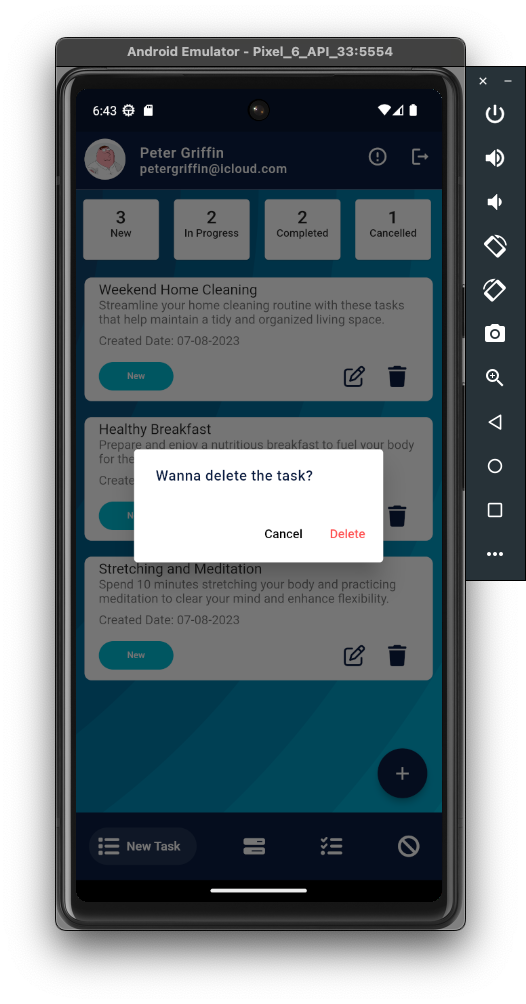
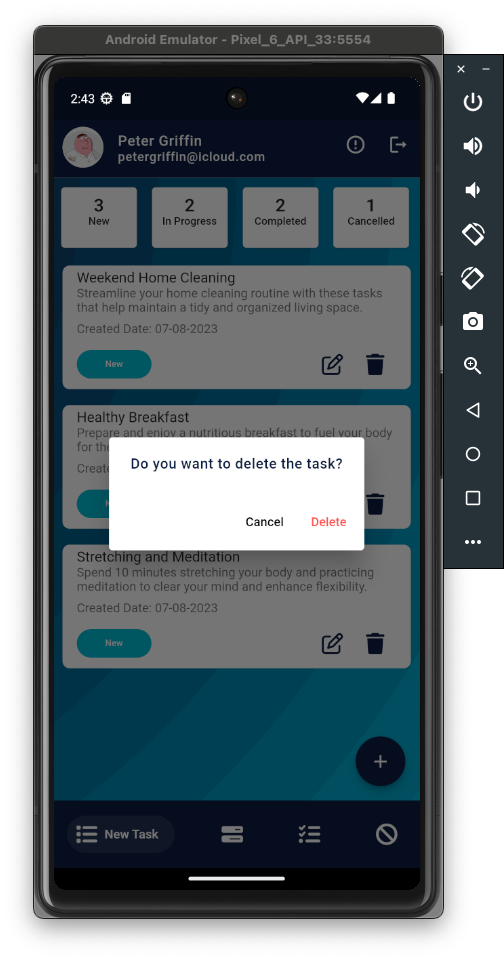
minor ui changes & bug fixes

diff --git a/lib/ui/pages/update/update_profile_page.dart b/lib/ui/pages/update/update_profile_page.dart
@@ -232,23 +232,7 @@ class _ProfilePageState extends State<ProfilePage> {
                 const SizedBox(
                   height: 12,
                 ),
-                Row(
-                  mainAxisAlignment: MainAxisAlignment.end,
-                  children: [
-                    GestureDetector(
-                      onTap: () {
-                        showUpdatePasswordBottomSheet();
-                      },
-                      child: Text(
-                        'Update Password?',
-                        style: myTextStyle,
-                      ),
-                    ),
-                  ],
-                ),
-                const SizedBox(
-                  height: 8,
-                ),
+                
                 SizedBox(
                   width: double.infinity,
                   child: _profileUpdateInProgress
@@ -263,6 +247,15 @@ class _ProfilePageState extends State<ProfilePage> {
                           child: Text('Update Information',
                               style: myButtonTextColor),
                         ),
+                ),
+                SizedBox(
+                  width:  double.infinity,
+                  child: ElevatedButton(
+                    onPressed: () {
+                      showUpdatePasswordBottomSheet();
+                    },
+                    child: Text('Change Password', style: myButtonTextColor),
+                  ),
                 ),
               ],
             ),

diff --git a/lib/ui/pages/update/update_pass.dart b/lib/ui/pages/update/update_pass.dart
@@ -62,7 +62,7 @@ class _UpdatePasswordBottomSheetState extends State<UpdatePasswordBottomSheet> {
                   Row(
                     children: [
                       Text(
-                        'Update Password',
+                        'Change Password',
                         style: Theme.of(context).textTheme.titleLarge,
                       ),
                       const Spacer(),
@@ -96,7 +96,7 @@ class _UpdatePasswordBottomSheetState extends State<UpdatePasswordBottomSheet> {
                     keyboardType: TextInputType.text,
                     textInputAction: TextInputAction.done,
                     decoration: InputDecoration(
-                      hintText: 'Password',
+                      hintText: 'New Password',
                       prefixIcon: Icon(
                         Icons.lock_rounded,
                         size: 22,
@@ -182,7 +182,7 @@ class _UpdatePasswordBottomSheetState extends State<UpdatePasswordBottomSheet> {
                           _passwordUpdate();
                         },
                         child:
-                            Text('Update Password', style: myButtonTextColor),
+                            Text('Confirm Change Password', style: myButtonTextColor),
                       ),
                     ),
                   ),

diff --git a/lib/ui/pages/auth/pin_verify_page.dart b/lib/ui/pages/auth/pin_verify_page.dart
@@ -123,9 +123,9 @@ class _PinVerifyPageState extends State<PinVerifyPage> {
                   },
                   beforeTextPaste: (text) {
                     // print("Allowing to paste $text");
-                    // //if you return true then it will show the paste confirmation dialog. Otherwise if false, then nothing will happen.
-                    // //but you can show anything you want here, like your pop up saying wrong paste format or etc
-                    return true;
+                    //if you return true then it will show the paste confirmation dialog. Otherwise if false, then nothing will happen.
+                    //but you can show anything you want here, like your pop up saying wrong paste format or etc
+                    return false;
                   },
                   appContext: context,
                 ),

diff --git a/lib/ui/pages/new_task_page.dart b/lib/ui/pages/new_task_page.dart
@@ -209,7 +209,7 @@ class _NewTaskPageState extends State<NewTaskPage> {
                                         DialogBox.show(
                                           context: context,
                                           contentMessage:
-                                              'Wanna delete the task?',
+                                              'Do you want to delete the task?',
                                           leftButtonText: 'Cancel',
                                           rightButtonText: 'Delete',
                                           onLeftButtonPressed: () {

diff --git a/lib/ui/pages/inprogress_task_page.dart b/lib/ui/pages/inprogress_task_page.dart
@@ -182,7 +182,7 @@ class _InProgressTaskPageState extends State<InProgressTaskPage> {
                                 onDeletePress: () {
                                   DialogBox.show(
                                     context: context,
-                                    contentMessage: 'Wanna delete the task?',
+                                    contentMessage: 'Do you want to delete the task?',
                                     leftButtonText: 'Cancel',
                                     rightButtonText: 'Delete',
                                     onLeftButtonPressed: () {

diff --git a/lib/ui/pages/cancelled_task_page.dart b/lib/ui/pages/cancelled_task_page.dart
@@ -184,7 +184,7 @@ class _CancelledTaskPageState extends State<CancelledTaskPage> {
                                 onDeletePress: () {
                                   DialogBox.show(
                                     context: context,
-                                    contentMessage: 'Wanna delete the task?',
+                                    contentMessage: 'Do you want to delete the task?',
                                     leftButtonText: 'Cancel',
                                     rightButtonText: 'Delete',
                                     onLeftButtonPressed: () {

diff --git a/lib/ui/pages/completed_task_page.dart b/lib/ui/pages/completed_task_page.dart
@@ -181,7 +181,7 @@ class _CompletedTaskPageState extends State<CompletedTaskPage> {
                                 onDeletePress: () {
                                   DialogBox.show(
                                     context: context,
-                                    contentMessage: 'Wanna delete the task?',
+                                    contentMessage: 'Do you want to delete the task?',
                                     leftButtonText: 'Cancel',
                                     rightButtonText: 'Delete',
                                     onLeftButtonPressed: () {

diff --git a/lib/ui/pages/auth/reset_password_page.dart b/lib/ui/pages/auth/reset_password_page.dart
@@ -94,7 +94,7 @@ class _ResetPasswordPageState extends State<ResetPasswordPage> {
                     keyboardType: TextInputType.text,
                     textInputAction: TextInputAction.done,
                     decoration: InputDecoration(
-                      hintText: 'Password',
+                      hintText: 'New Password',
                       prefixIcon: Icon(
                         Icons.lock_rounded,
                         size: 22,

diff --git a/lib/ui/widgets/profile_app_bar.dart b/lib/ui/widgets/profile_app_bar.dart
@@ -98,7 +98,7 @@ class _ProfileAppBarState extends State<ProfileAppBar> {
             onPressed: () {
               DialogBox.show(
                 context: context,
-                contentMessage: 'Wanna log out?',
+                contentMessage: 'Do you want to log out?',
                 leftButtonText: 'Cancel',
                 rightButtonText: 'Log out',
                 onLeftButtonPressed: () {
